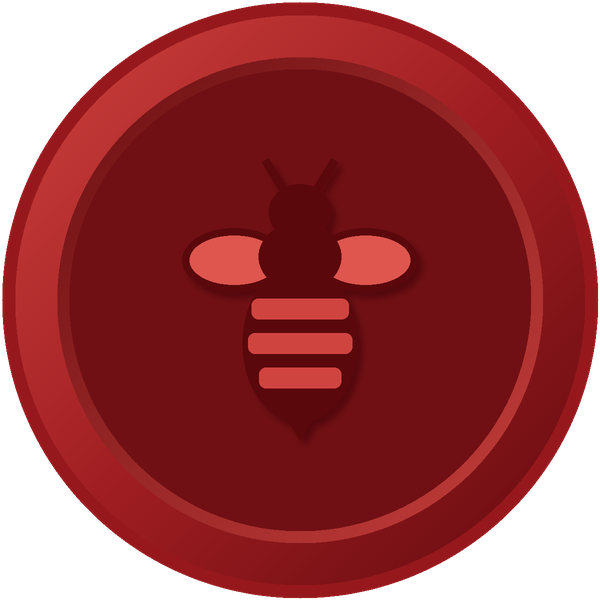
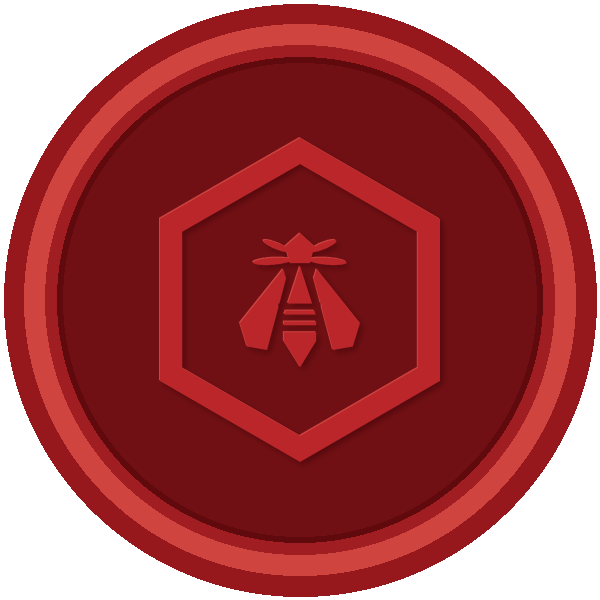
docs: the bee candidate's vector seal is the faceted bee in a wax cell the owner chose, not a copy of its sprite
Seal-Routing: no work item

diff --git a/assets/seals/README.md b/assets/seals/README.md
@@ -168,10 +168,11 @@ with a sentence naming the line and the column.
   a vector seal with the detail an image can carry, for a release note,
   the README or the plugin icon. Each has a `.png` preview beside it. The
   owl's vector carries more than its sprite: ringed eyes, the wing lines
-  and the chevrons on its breast. The bee's vector follows its sprite.
+  and the chevrons on its breast. The bee's vector is a faceted bee inside
+  a hexagonal wax cell, the honeycomb its sprite has no room for.
 
 ![The owl as a vector seal: a raised owl with ringed eyes, wing lines and chevrons on its breast, pressed into a red disc](candidates/owl-web.png)
-![The bee as a vector seal: the sprite's bee drawn as shapes, pale wings and lit stripes on a dark body, on a red disc](candidates/bee-web.png)
+![The bee as a vector seal: a faceted bee with banded body and kite-shaped wings inside a raised hexagonal wax cell, on a red disc](candidates/bee-web.png)
 
 ### The light-red section sign at 14 cells — `section-14-light-red`
 
